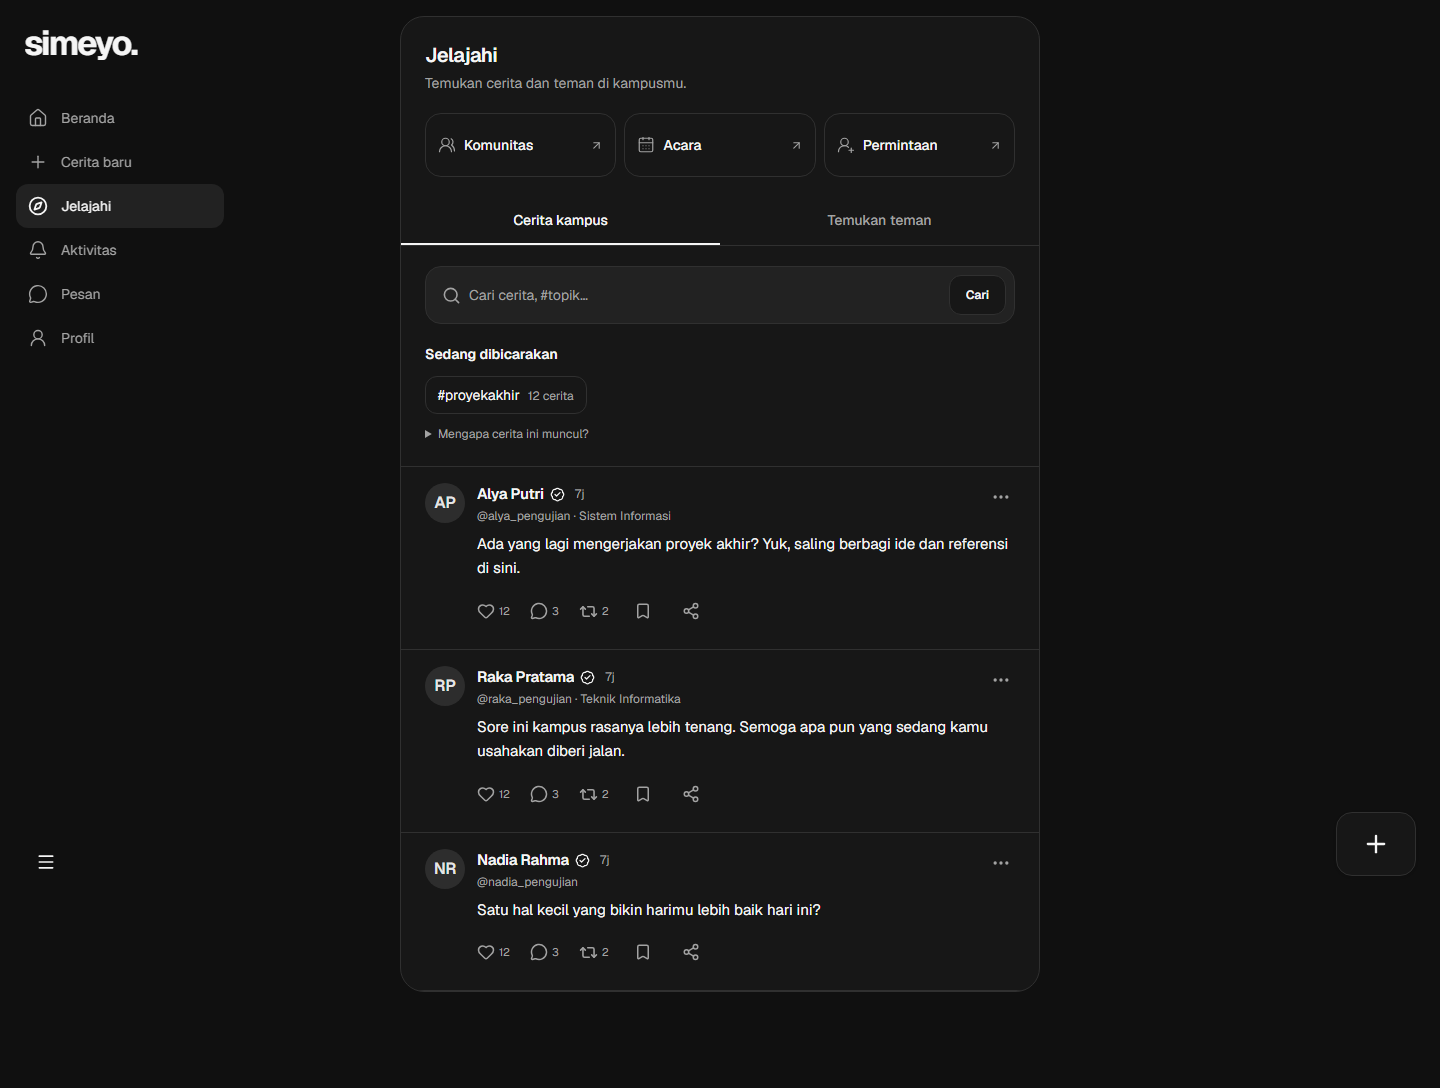
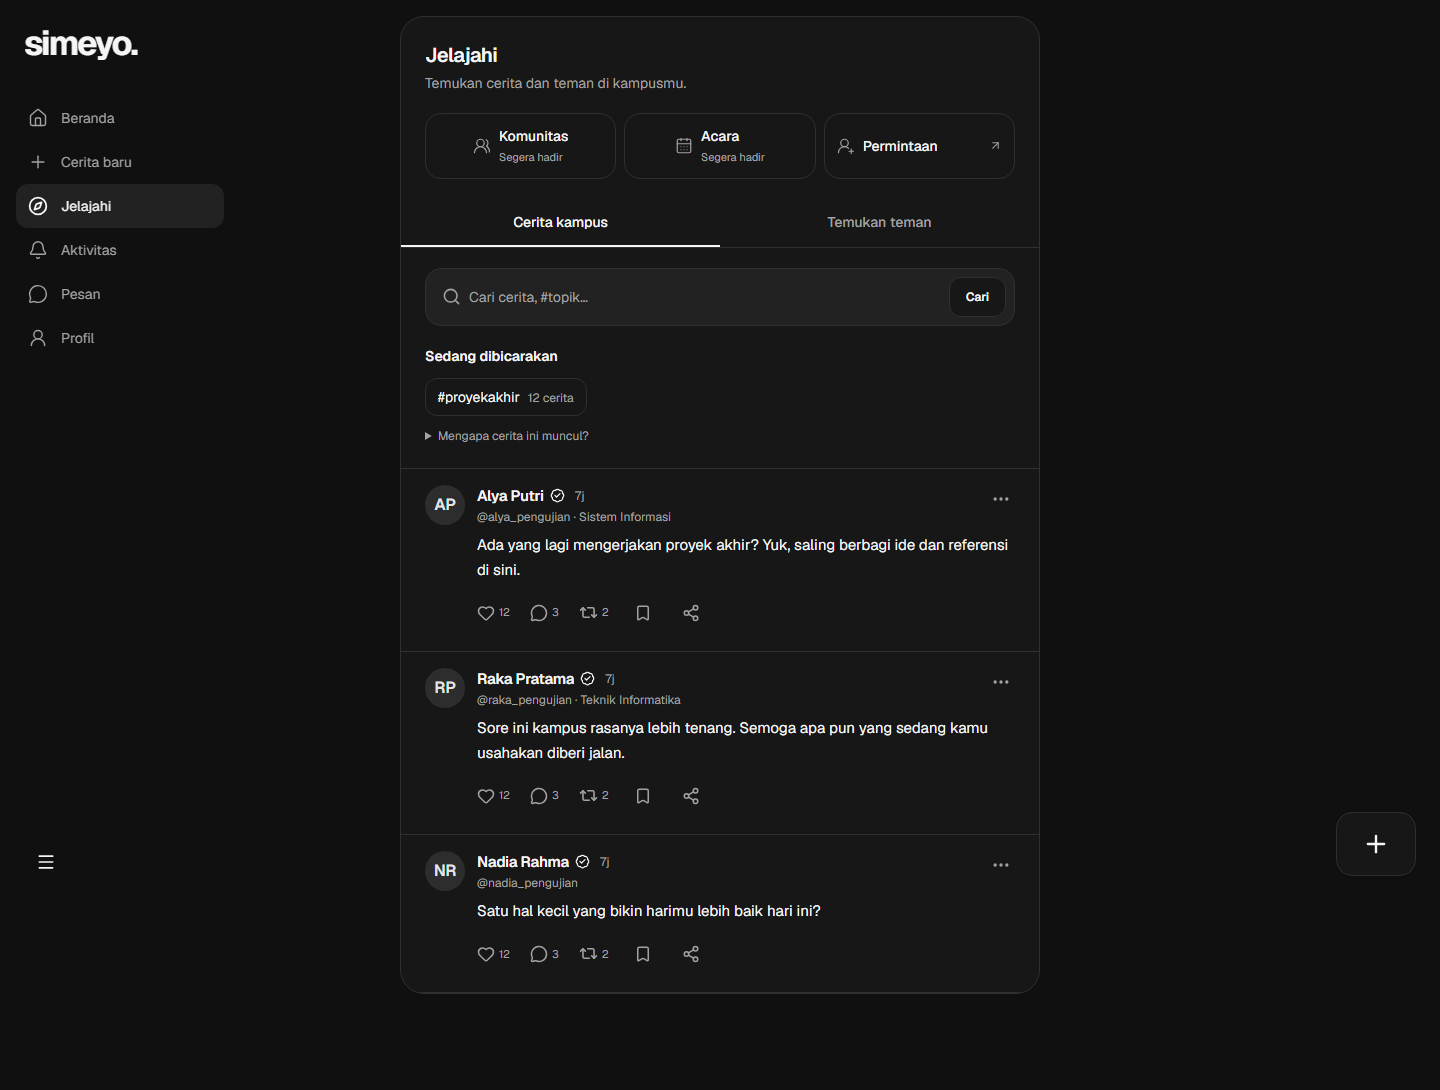
ui: mark community and event shortcuts as coming soon [skip ci]

diff --git a/apps/web/src/components/social/campus.tsx b/apps/web/src/components/social/campus.tsx
@@ -69,11 +69,18 @@ export function CampusExplore({
             { href: "/events", label: "Acara", icon: CalendarDays },
             { href: "/requests", label: "Permintaan", icon: UserRoundPlus },
           ].map(({ href, label, icon: Icon }) => (
+            href !== "/requests" ? (
+              <button key={href} type="button" disabled className="flex min-h-16 flex-col items-start justify-center gap-2 rounded-2xl border border-[var(--border)] px-3 py-3 text-left text-xs sm:flex-row sm:items-center sm:text-sm">
+                <Icon size={18} strokeWidth={1.6} className="shrink-0 text-[var(--muted)]" />
+                <span><span className="block font-medium">{label}</span><span className="mt-1 block text-[11px] font-normal text-[var(--muted)]">Segera hadir</span></span>
+              </button>
+            ) : (
             <Link key={href} href={href} className="group flex min-h-16 flex-col items-start justify-center gap-2 rounded-2xl border border-[var(--border)] px-3 py-3 text-xs font-medium transition-colors hover:bg-[var(--soft)] sm:flex-row sm:items-center sm:justify-start sm:text-sm">
               <Icon size={18} strokeWidth={1.6} className="shrink-0 text-[var(--muted)]" />
               {label}
               <ArrowUpRight size={13} className="ml-auto hidden text-[var(--muted)] sm:block" />
             </Link>
+            )
           ))}
         </div>
       </header>

diff --git a/apps/web/tests/feed-experience.spec.ts b/apps/web/tests/feed-experience.spec.ts
@@ -304,7 +304,9 @@ test("explore stays readable across sizes and supports topic search and people",
     for (const theme of ["light", "dark"]) {
       await page.evaluate((theme) => document.documentElement.dataset.theme = theme, theme);
       expect(await page.evaluate(() => document.documentElement.scrollWidth <= window.innerWidth)).toBe(true);
-      await expect(page.getByRole("link", { name: "Komunitas", exact: true })).toBeVisible();
+      await expect(page.getByRole("button", { name: "Komunitas Segera hadir", exact: true })).toBeDisabled();
+      await expect(page.getByRole("button", { name: "Acara Segera hadir", exact: true })).toBeDisabled();
+      await expect(page.getByRole("link", { name: "Permintaan", exact: true })).toBeVisible();
       await page.screenshot({ path: path.resolve(process.cwd(), `../../docs/testing/screenshots/explore-${width}-${theme}.png`), fullPage: true, animations: "disabled" });
     }
   }
